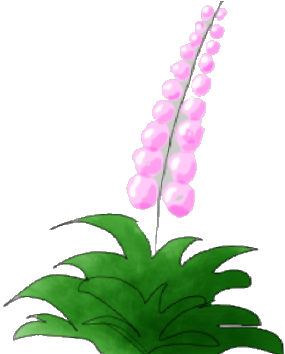
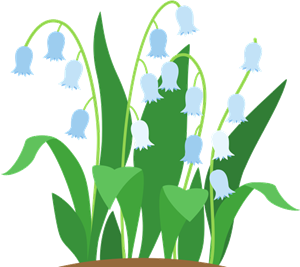
flower improvements

diff --git a/src/components/contextMenu/elementMenu/flowerSelection.tsx b/src/components/contextMenu/elementMenu/flowerSelection.tsx
@@ -121,19 +121,19 @@ const FlowerSelection = () => {
         {i18n.t('flower.CactusCombo4', lang)}
       </Option>
       <Option key={FlowerType.RedRose} value={FlowerType.RedRose}>
-        <img alt={FlowerType.RedRose} src={RedRoseImage} height={20} style={{ paddingRight: '28px' }} />{' '}
+        <img alt={FlowerType.RedRose} src={RedRoseImage} height={20} style={{ paddingRight: '26px' }} />{' '}
         {i18n.t('flower.RedRose', lang)}
       </Option>
       <Option key={FlowerType.Bellflower} value={FlowerType.Bellflower}>
-        <img alt={FlowerType.Bellflower} src={BellflowerImage} height={20} style={{ paddingRight: '28px' }} />{' '}
+        <img alt={FlowerType.Bellflower} src={BellflowerImage} height={20} style={{ paddingRight: '20px' }} />{' '}
         {i18n.t('flower.Bellflower', lang)}
       </Option>
       <Option key={FlowerType.Sunflower} value={FlowerType.Sunflower}>
-        <img alt={FlowerType.Sunflower} src={SunflowerImage} height={20} style={{ paddingRight: '33px' }} />{' '}
+        <img alt={FlowerType.Sunflower} src={SunflowerImage} height={20} style={{ paddingRight: '32px' }} />{' '}
         {i18n.t('flower.Sunflower', lang)}
       </Option>
       <Option key={FlowerType.Tulip} value={FlowerType.Tulip}>
-        <img alt={FlowerType.Tulip} src={TulipImage} height={20} style={{ paddingRight: '26px' }} />{' '}
+        <img alt={FlowerType.Tulip} src={TulipImage} height={20} style={{ paddingRight: '24px' }} />{' '}
         {i18n.t('flower.Tulip', lang)}
       </Option>
     </Select>

diff --git a/src/FlowerData.ts b/src/FlowerData.ts
@@ -28,7 +28,7 @@ export class FlowerData {
   static fetchSpread(name: string): number {
     switch (name) {
       case FlowerType.Bellflower:
-        return 0.4;
+        return 0.45;
       case FlowerType.Boxwood:
         return 1.6;
       case FlowerType.CactusCombo1:
@@ -67,7 +67,7 @@ export class FlowerData {
   static fetchHeight(name: string): number {
     switch (name) {
       case FlowerType.Bellflower:
-        return 0.8;
+        return 0.4;
       case FlowerType.Boxwood:
         return 1.44;
       case FlowerType.CactusCombo1:

diff --git a/src/i18n/zh_cn.ts b/src/i18n/zh_cn.ts
@@ -1155,7 +1155,7 @@ export const i18n_zh_cn = {
     },
 
     flower: {
-      Bellflower: '风铃草',
+      Bellflower: '铃兰',
       Boxwood: '黄杨',
       CactusCombo1: '仙人掌组合一',
       CactusCombo2: '仙人掌组合二',

diff --git a/src/i18n/zh_tw.ts b/src/i18n/zh_tw.ts
@@ -1156,7 +1156,7 @@ export const i18n_zh_tw = {
     },
 
     flower: {
-      Bellflower: '風鈴草',
+      Bellflower: '鈴蘭',
       Boxwood: '黃楊',
       CactusCombo1: '仙人掌組合一',
       CactusCombo2: '仙人掌組合二',
